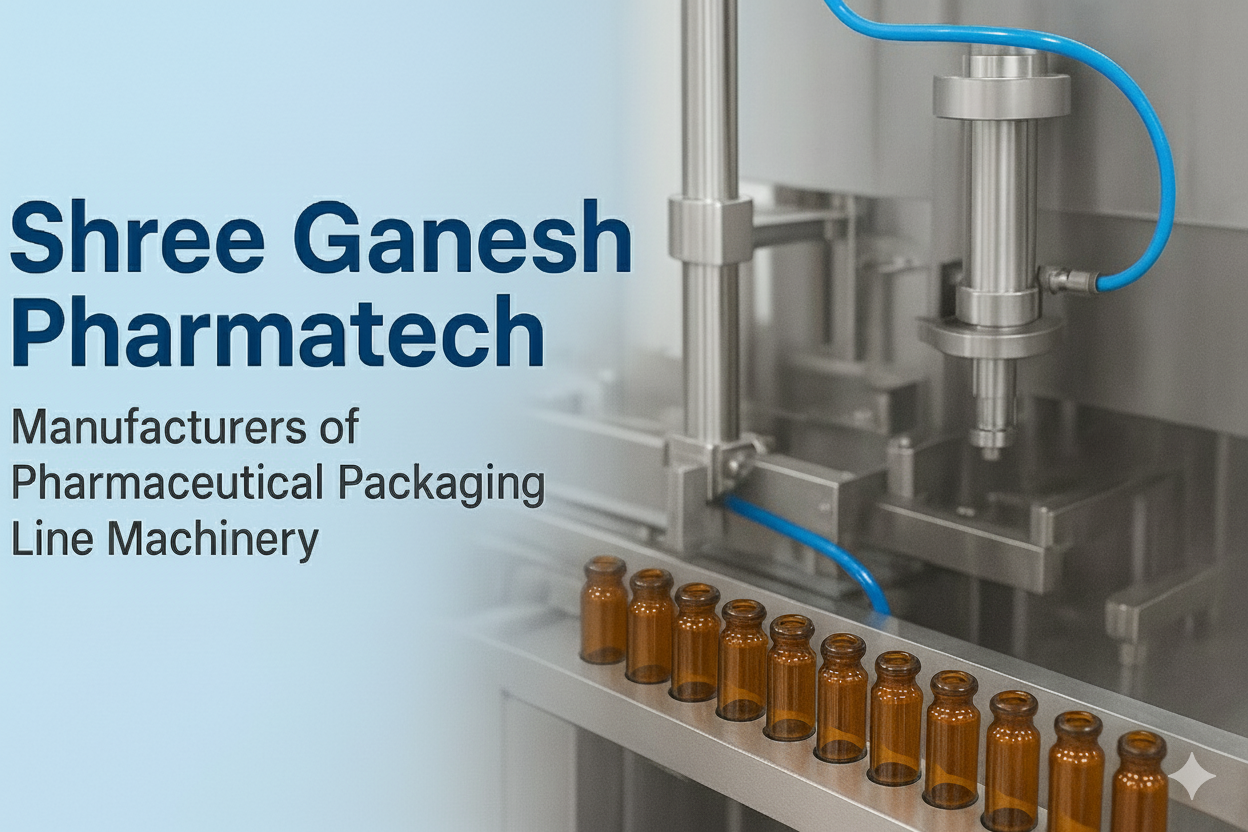
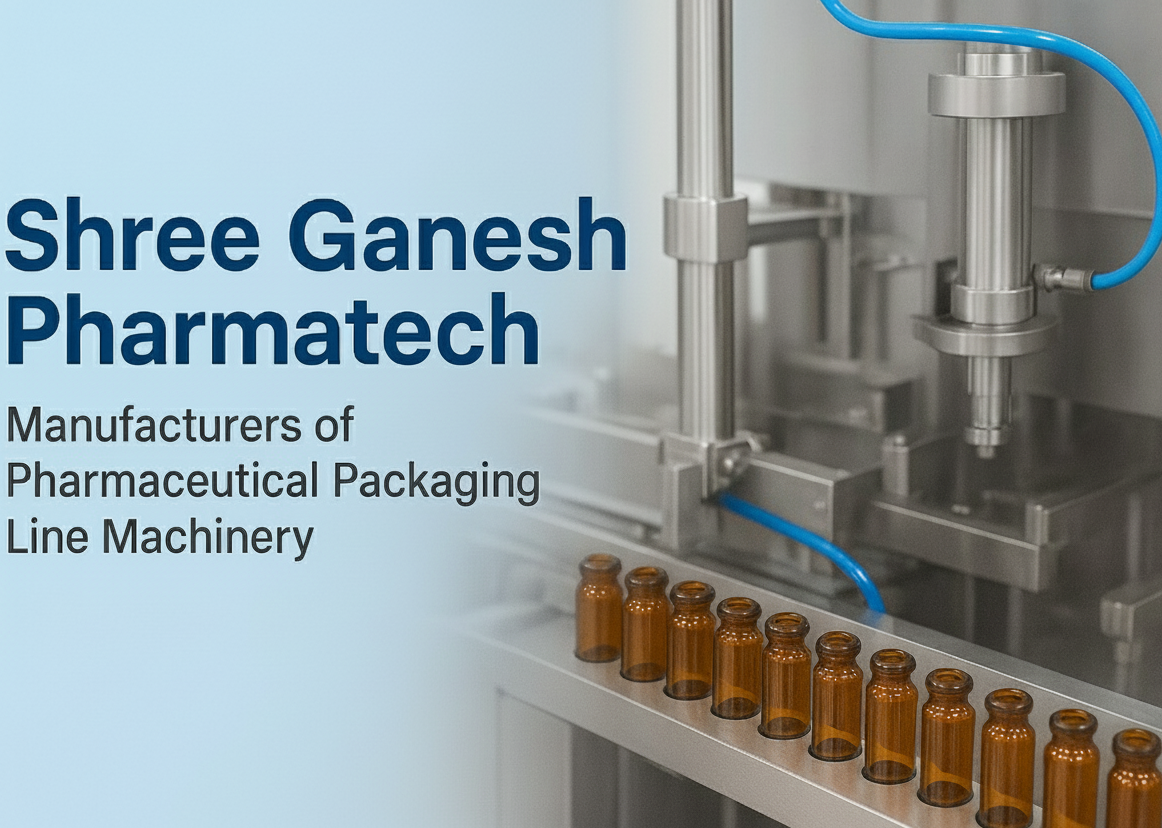
image proper

diff --git a/resources/js/Pages/Home.vue b/resources/js/Pages/Home.vue
@@ -188,7 +188,7 @@ const bento = computed(() => {
     <section class="relative -mt-16 px-4 sm:px-6 lg:px-8">
         <div class="mx-auto max-w-7xl">
             <ScrollReveal :stagger="0.12" :y="24" target=".stat-card">
-                <div class="glass grid divide-x divide-slate-200 overflow-hidden rounded-3xl shadow-xl md:grid-cols-4">
+                <div class="grid overflow-hidden rounded-3xl border border-slate-200 bg-white shadow-xl md:grid-cols-4 md:divide-x md:divide-slate-200">
                     <div v-for="(s, i) in stats" :key="i" class="stat-card p-8 text-center">
                         <div class="font-heading text-4xl font-semibold text-[color:var(--color-brand)] sm:text-5xl">
                             <AnimatedCounter :to="s.to" :suffix="s.suffix" />

diff --git a/config/images.php b/config/images.php
@@ -135,7 +135,7 @@ $LIB = [
     'industry_cosmetics_1' => "{$dir}/cosmetics-personalcare.optimized.webp",               // industries page cosmetics & personal care
     'industry_ayurvedic_1' => "{$dir}/ayurvedi-herbal.optimized.webp",                      // industries page ayurvedic / herbal
     'industry_veterinary_1' => "{$dir}/Veterinary-image.optimized.webp",                    // industries page veterinary
-    'home_shree_ganesh' => "{$dir}/home-shree-ganesh.optimized.webp",            // homepage feature card optimized image
+    'home_shree_ganesh' => "{$dir}/home-shree-ganesh.png",                       // homepage feature card image
 ];
 
 return [
